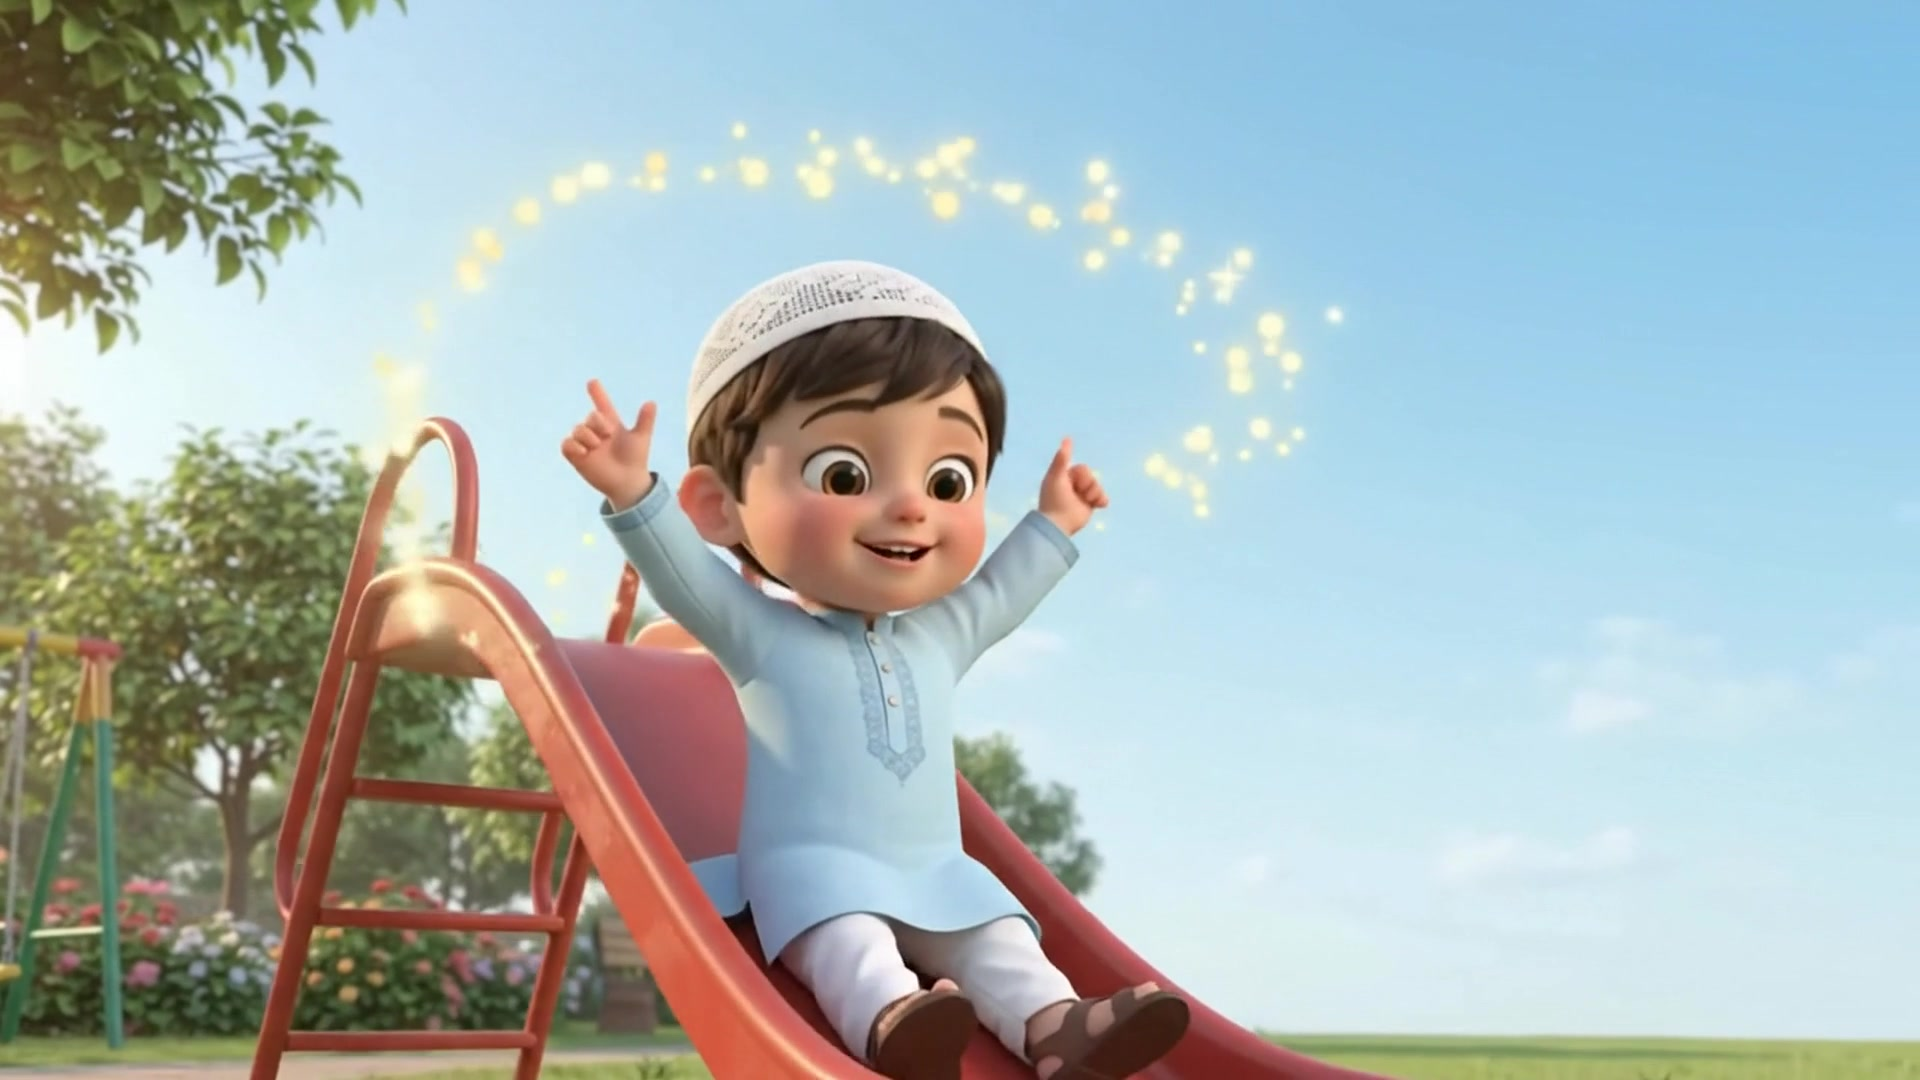
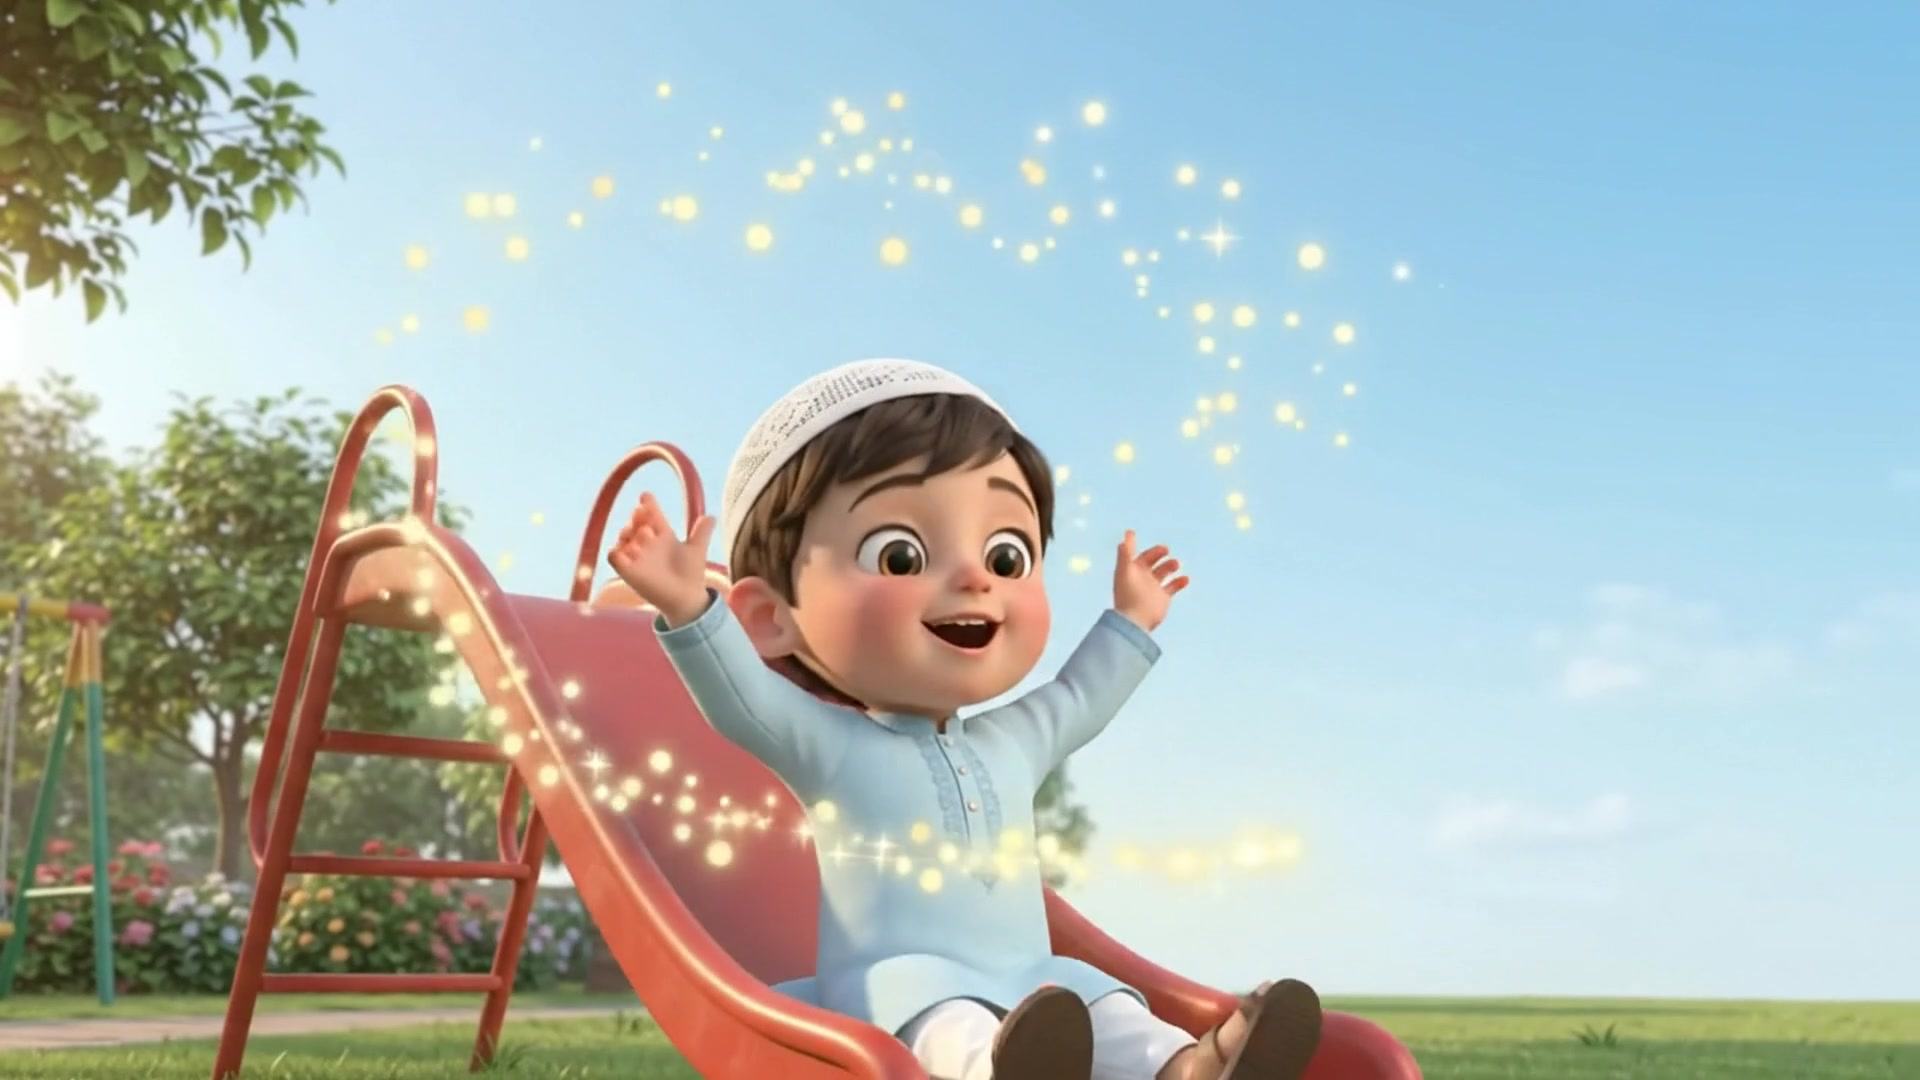
Episode 18: final render checked, thumbnail and docs row
Claude-Session: https://claude.ai/code/session_01Hu6CTzLQn3X4rZTRtFg18M

diff --git a/docs/02-season-1-episodes.md b/docs/02-season-1-episodes.md
@@ -21,6 +21,7 @@
 | ১৫ | ভুল কাজ করলে | উমায়ের সাফার বল কেড়ে নেয়; মা শেখান আস্তাগফিরুল্লাহ, উমায়ের দুঃখিত বলে বল ফিরিয়ে দেয় | ভুল কাজ করলে আল্লাহর কাছে ক্ষমা চাওয়া | أَسْتَغْفِرُ اللَّهَ (আস্তাগফিরুল্লাহ) | সহিহ বুখারি ৬৩০৭ |
 | ১৬ | ঘর থেকে বের হলে | উমায়ের পার্কে যেতে দৌড় দেয়; মা থামিয়ে শেখান বের হওয়ার দোয়া | ঘর থেকে বের হওয়ার আগে দোয়া | بِسْمِ اللَّهِ تَوَكَّلْتُ عَلَى اللَّهِ (প্রথম অংশ) | আবু দাউদ ৫০৯৫, তিরমিজি ৩৪২৬ |
 | ১৭ | পরে কিছু করবো বললে | পার্ক থেকে ফিরে উমায়ের বলে "কাল আবার পার্কে যাব!"; মা শেখান ইনশাআল্লাহ, সাফাও বলে | ভবিষ্যতের কাজের কথায় ইনশাআল্লাহ বলা | إِنْ شَاءَ اللَّهُ (ইনশাআল্লাহ) | সূরা কাহফ ১৮:২৩–২৪ |
+| ১৮ | উপরে উঠলে, নিচে নামলে | পার্কে স্লাইডে ওঠার আগে মা শেখান; উমায়ের আর জুনায়েদ উঠতে আল্লাহু আকবার, নামতে সুবহানাল্লাহ বলে | ওঠা-নামার সময় আল্লাহর জিকির | اللَّهُ أَكْبَرُ / سُبْحَانَ اللَّهِ | সহিহ বুখারি ২৯৯৩ |
 
 ## পর্ব ক্রমের যুক্তি
 
@@ -80,3 +81,4 @@
 | ভুল করলে | আস্তাগফিরুল্লাহ | সহিহ বুখারি ৬৩০৭ |
 | ঘর থেকে বের হলে | বিসমিল্লাহি তাওয়াক্কালতু আলাল্লাহ | আবু দাউদ ৫০৯৫, তিরমিজি ৩৪২৬ |
 | পরে কিছু করবো বললে | ইনশাআল্লাহ | সূরা কাহফ ১৮:২৩–২৪ |
+| উপরে উঠলে / নিচে নামলে | আল্লাহু আকবার / সুবহানাল্লাহ | সহিহ বুখারি ২৯৯৩ |
